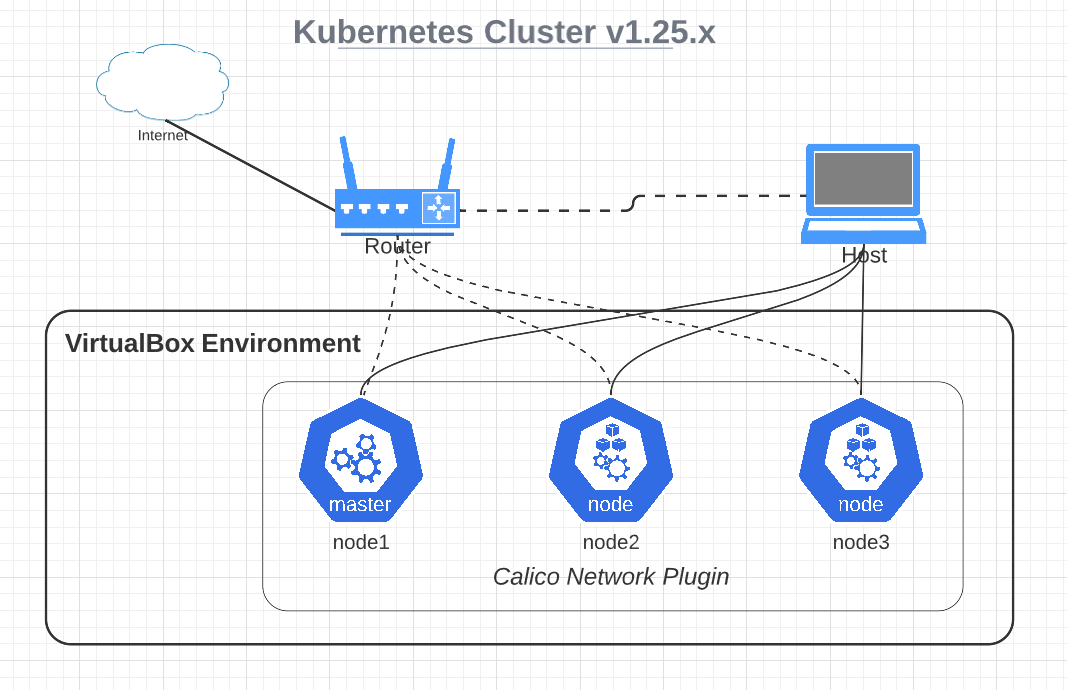
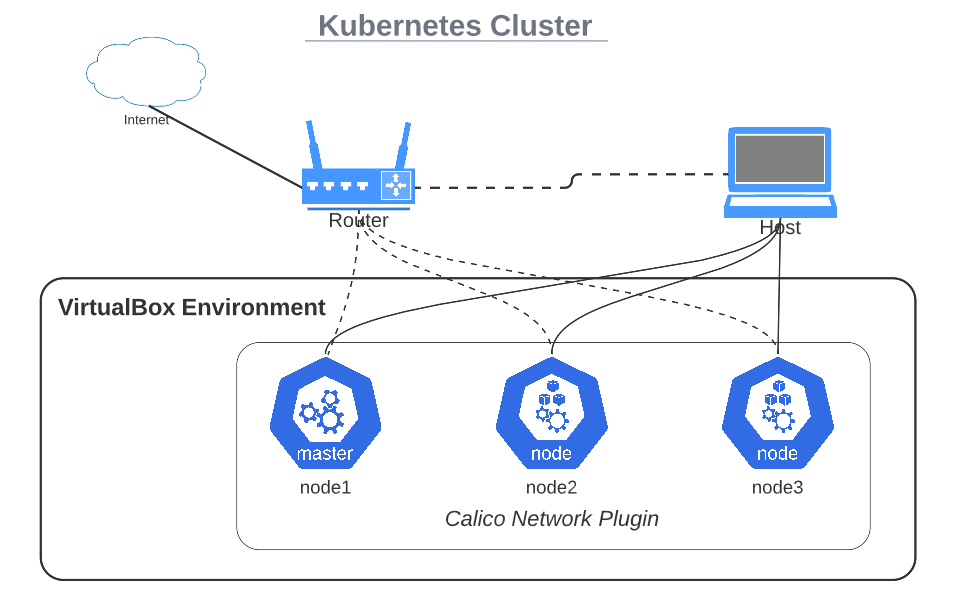
readme file adjusted

diff --git a/README.md b/README.md
@@ -1,4 +1,6 @@
-# Kubernetes Cluster v1.25.x
+# Kubernetes Cluster
+You can install a different version of Kubernetes by changing the `box_version` settings in the Vagrantfile. The available box versions can be found here:
+https://app.vagrantup.com/merev/boxes/k8s-node
 #### Requirements:
 
  - VirtualBox 6.1+:  https://www.virtualbox.org/wiki/Downloads 
@@ -14,14 +16,14 @@ This is an automated solution for K8S cluster (v1.25.x) created through `kubeadm
 The architecture of the cluster looks like:
 ![general setup](cluster-architecture.png)
 
-Every node in the cluster is based on the same Vagrant box (*merev/debian-k8s-node*). You can find detailed information about the box here - https://app.vagrantup.com/merev/boxes/k8s-node.
+Every node in the cluster is based on the same Vagrant box (*merev/k8s-node*). You can find detailed information about the box here - https://app.vagrantup.com/merev/boxes/k8s-node.
 ### Nodes Specification
 The operating system installed on the nodes is Debian 11. Each node has 2 GB RAM, 2 CPUs, and 60 GB disk space. The hardware parameters can be adjusted before provisioning in the `config.vm.provider` block of the Vagrantfile. Every node has 2 network interfaces:
  - 1 NIC in NAT Mode - connected to the host machine;
  - 1 NIC in Bridge Mode - connected to the local network.
 
 #### Warning: The second NIC (Bridge mode) of the nodes has a static IP address that belongs to my local network. Don't forget to replace the IPs of these interfaces with the ones that belong to your network (in the initial configuration scripts and Vagrantfile).
-Information about the installed software can be found in the box specification.
+Information about the installed software can be found in the box specification as well as in the node-preparation script.
 
 ### Initial Configuration
 The initial configuration of the cluster contains the following actions:
